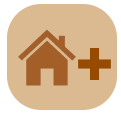
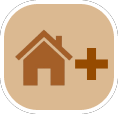
Merchant scoring, end panel, and actual buttons

diff --git a/KingdomBuilderPanel.java b/KingdomBuilderPanel.java
@@ -1,5 +1,6 @@
 import javax.imageio.ImageIO;
 import javax.swing.JPanel;
+import javax.swing.ImageIcon;
 import javax.swing.JButton;
 
 import java.awt.event.*;
@@ -12,7 +13,10 @@ import java.awt.Graphics2D;
 public class KingdomBuilderPanel extends JPanel implements ActionListener, MouseListener {
     private KingdomBuilder frame;
     private Game game;
+
     private JButton startButton;
+    private JButton settlementButton;
+    private JButton endTurnButtonButton;
 
     private JButton obj1Button;
     private JButton obj2Button;
@@ -22,19 +26,13 @@ public class KingdomBuilderPanel extends JPanel implements ActionListener, Mouse
     private Boolean obj2ButtonTF = false;
     private Boolean obj3ButtonTF = false;
 
-
-    private boolean canPlaceSettlement;
-
-    private BufferedImage blurBG, playerWood,mapWood, settlementWood, player1NameBlock, player2NameBlock, player3NameBlock, player4NameBlock, addSettlementButton,
-            endTurnButton, settlementCountBlock, deckTextBlock, discardTextBlock,purpleSettlement,yellowSettlement,blueSettlement,redSettlement,player1Small,player2Small,player3Small,player4Small,firstPlayer; 
+    private BufferedImage blurBG, playerWood,mapWood, settlementWood, player1NameBlock, player2NameBlock, player3NameBlock, player4NameBlock, addSettlementButton, settlementButtonBlackened,
+            endTurnButton, endTurnBlackened, settlementCountBlock, deckTextBlock, discardTextBlock,purpleSettlement,yellowSettlement,blueSettlement,redSettlement,player1Small,player2Small,player3Small,player4Small,firstPlayer; 
 
     public KingdomBuilderPanel(KingdomBuilder kb) {
         setSize(getPreferredSize());
         setLayout(null);
         frame = kb;
-        canPlaceSettlement = false;
-
-        
 
         startButton = new JButton("skip to end button");
         startButton.setOpaque(false);
@@ -45,6 +43,20 @@ public class KingdomBuilderPanel extends JPanel implements ActionListener, Mouse
         startButton.setFocusable(false);
         startButton.addActionListener(this);
         add(startButton);
+
+        settlementButton = new JButton();
+        settlementButton.setBounds(1409, 652, 114, 110);
+        settlementButton.setBorder(null);
+        settlementButton.setContentAreaFilled(false);
+        settlementButton.setFocusable(false);
+        settlementButton.addActionListener(this);
+
+        endTurnButtonButton = new JButton();
+        endTurnButtonButton.setBounds(1144, 840, 381, 49);
+        endTurnButtonButton.setBorder(null);
+        endTurnButtonButton.setContentAreaFilled(false);
+        endTurnButtonButton.setFocusable(false);
+        endTurnButtonButton.addActionListener(this);
 
         addMouseListener(this);
 
@@ -75,9 +87,25 @@ public class KingdomBuilderPanel extends JPanel implements ActionListener, Mouse
             player4Small = ImageIO.read(KingdomBuilderPanel.class.getResource("/Images/player4NameBlockSmall.png"));
             //firstPlayer = ImageIO.read(KingdomBuilderPanel.class.getResource("/Images/"));
 
+            settlementButtonBlackened = ImageIO.read(KingdomBuilderPanel.class.getResource("Images/Add Settlement Button Blackened.png"));
+            endTurnBlackened = ImageIO.read(KingdomBuilderPanel.class.getResource("Images/End Turn Button Blackened.png"));
+
         } catch (Exception e) {
             System.out.println("Kingdom Builder panel error");
         }
+
+        //?????? Not doing this results in Java cropping it slightly.
+        int width = 114;
+        int height = 110;
+        settlementButton.setIcon(new ImageIcon(addSettlementButton.getScaledInstance(width, height, java.awt.Image.SCALE_SMOOTH)));
+        settlementButton.setRolloverIcon(new ImageIcon(settlementButtonBlackened.getScaledInstance(width, height, java.awt.Image.SCALE_SMOOTH)));
+        settlementButton.setDisabledIcon(settlementButton.getRolloverIcon());
+        add(settlementButton);
+
+        endTurnButtonButton.setIcon(new ImageIcon(endTurnButton));
+        endTurnButtonButton.setRolloverIcon(new ImageIcon(endTurnBlackened));
+        endTurnButtonButton.setDisabledIcon(endTurnButtonButton.getRolloverIcon());
+        add(endTurnButtonButton);
     }
 
     public void start() {
@@ -85,11 +113,12 @@ public class KingdomBuilderPanel extends JPanel implements ActionListener, Mouse
     }
 
     public void setSettlementButton(boolean b) {
-    	canPlaceSettlement = b;
+    	//canPlaceSettlement = b;
+        settlementButton.setEnabled(b);
     }
 
     public void setSwitchTurnButton(boolean b) {
-
+        endTurnButtonButton.setEnabled(b);
     }
 
     public void paintComponent(Graphics l) {
@@ -111,8 +140,8 @@ public class KingdomBuilderPanel extends JPanel implements ActionListener, Mouse
         g.drawImage(discardTextBlock, 1270, 581, 102, 32, null);
         g.drawString("Discarded: " + game.getDiscard().size(), 1284, 602);
         //buttons on player section
-        g.drawImage(addSettlementButton, 1409, 652, 114, 110, null);
-        g.drawImage(endTurnButton, 1144, 840, 381, 49, null);
+        //g.drawImage(addSettlementButton, 1409, 652, 114, 110, null);
+        //g.drawImage(endTurnButton, 1144, 840, 381, 49, null);
 
         //Player not main people info
         int temp = game.turn();
@@ -330,14 +359,24 @@ public class KingdomBuilderPanel extends JPanel implements ActionListener, Mouse
         game.mostMoves(x, y);
         repaint();
         
-        if(x > 1409 && x < 1409 + 114 && y > 625 && y < 625+110 && canPlaceSettlement)
-        	game.startSettlementPlay();
-        if(x> 1144 && x < 1144+381 && y > 840 && y < 840+49) 
-            game.switchTurn();
+        //if(x > 1409 && x < 1409 + 114 && y > 625 && y < 625+110 && canPlaceSettlement)
+        //	game.startSettlementPlay();
+        //if(x> 1144 && x < 1144+381 && y > 840 && y < 840+49) 
+        //    game.switchTurn();
 
     }
 
     public void actionPerformed(ActionEvent e) {
-        frame.nextScreen();
+        if(e.getSource() == settlementButton) {
+            game.startSettlementPlay();
+            repaint();
+        }
+        else if(e.getSource() == endTurnButtonButton) {
+            game.switchTurn();
+            repaint();
+        }
+
+        else
+            endGame();
     }
 }

diff --git a/EndPanel.java b/EndPanel.java
@@ -1,23 +1,35 @@
 import java.util.ArrayList;
 import java.util.TreeSet;
 import java.util.HashMap;
+import java.util.Arrays;
 
 import javax.swing.JPanel;
 import javax.swing.JButton;
 
-import javax.imageio.*;
 import java.awt.Graphics;
 import java.awt.event.*;
 import java.awt.image.BufferedImage;
+import java.awt.Font;
+import java.awt.Color;
+
+import javax.imageio.*;
 
 public class EndPanel extends JPanel implements ActionListener{
     private KingdomBuilder frame;
     private BufferedImage woodBG, leaderboard, player1, player2, player3, player4, viewBoard, newGame;
     private JButton viewBoardButton, newGameButton;
 
+    private static final int LEADERBOARD_TOP_X = 206;
+    private static final int LEADERBOARD_TOP_Y = 240;
+    private static final int LEADERBOARD_INDENTED = LEADERBOARD_TOP_Y + 20;
+    private static final int RANK_SPACING = 90;
+    private static final int PLAYER_SPACING = 70;
+    private static final Font bigFont = new Font("Purisa", Font.BOLD, 60);
+    private static final Font smallFont = new Font("Purisa", Font.BOLD, 50);
+
     private String[] objectives;
     private HashMap<String, ArrayList<Integer>> scores;
-    private TreeSet<Integer>[] playerRanks;
+    private ArrayList<TreeSet<Integer>> playerRanks;
 
     private int[] totalScores;
 
@@ -59,6 +71,7 @@ public class EndPanel extends JPanel implements ActionListener{
         this.scores = scores;
 
         totalScores = new int[4];
+        playerRanks = new ArrayList<TreeSet<Integer>>();
 
         ArrayList<Integer> temp;
         for(String objective: scores.keySet()) {
@@ -72,26 +85,35 @@ public class EndPanel extends JPanel implements ActionListener{
         rankPlayers();
     }
 
+    //Richard: no point in over-optimizing. Besides, other solutions are very similar
     private void rankPlayers() {
-        int numPlayersRanked = 0;
-        int rankAt = 0;
-
-        while(numPlayersRanked < 4) {
-
-        }
-        playerRanks[rankAt]= new TreeSet<Integer>();
-        int maxScoreIndex = 0;
-        for(int i = 1; i < totalScores.length; i++) {
-            if(totalScores[i] > totalScores[maxScoreIndex]) {
-                maxScoreIndex = i;
-            }
-        }
-
+        int[] sortedScores = new int[4];
+        
         for(int i = 0; i < totalScores.length; i++) {
-            if(totalScores[i] == totalScores[maxScoreIndex]) {
-                playerRanks[rankAt].add(i);
-            }
+            sortedScores[i] = totalScores[i];
         }
+
+        Arrays.sort(sortedScores);
+
+        int currentScore;
+        int previousScore = -1;
+        for(int i = 3; i >= 0; i--) {
+            currentScore = sortedScores[i];
+
+            if(currentScore == previousScore)
+                continue;
+
+            playerRanks.add(new TreeSet<Integer>());
+            addPlayersWithScore(currentScore);
+
+            previousScore = currentScore;
+        }
+    }
+
+    private void addPlayersWithScore(int score) {
+        for(int i = 0; i < totalScores.length; i++)
+            if(totalScores[i] == score)
+                playerRanks.get(playerRanks.size() - 1).add(i);
     }
 
     public void paintComponent(Graphics g) {
@@ -100,6 +122,36 @@ public class EndPanel extends JPanel implements ActionListener{
         g.drawImage(leaderboard, 206, 18, 1288, 178, null);
         g.drawImage(viewBoard, 1300, 760, 242, 93, null);
         g.drawImage(newGame, 1300, 860, 242, 93, null);
+
+        Font old = g.getFont();
+        g.setColor(new Color(188, 151, 107));
+
+        int yAt = LEADERBOARD_TOP_Y;
+        for(int i = 0; i < playerRanks.size(); i++) {
+            String mess;
+            if(i == 0)
+                mess = "1st";
+            else if(i == 1)
+                mess = "2nd";
+            else if(i == 2)
+                mess = "3rd";
+            else
+                mess = "4th";
+
+            g.setFont(bigFont);
+            g.drawString(mess, LEADERBOARD_TOP_X, yAt);
+
+            g.setFont(smallFont);
+            for(int idk: playerRanks.get(i)) {
+                yAt += PLAYER_SPACING;
+                g.drawString("Player " + (idk + 1) + " ~ " + totalScores[idk], LEADERBOARD_INDENTED, yAt);
+            }
+
+            yAt += RANK_SPACING;
+        }
+
+
+        g.setFont(old);
     }
 
     public void actionPerformed(ActionEvent e) {

diff --git a/Game.java b/Game.java
@@ -4,8 +4,8 @@ import java.util.Queue;
 import java.util.LinkedList;
 import java.util.Collections;
 import java.util.HashMap;
-
-import java.util.Arrays;
+import java.util.Stack;
+//import java.util.Arrays;
 
 import java.awt.Graphics2D;
 
@@ -148,8 +148,6 @@ public class Game {
 
             p.updatePowerUpPositions();
         }
-
-        System.out.println(Arrays.toString(objectiveDeck));
     }
 
     public int getFirstPlayer(){
@@ -248,10 +246,11 @@ public class Game {
                 return;
 
             settlementCount++;
-            if(settlementCount == 3)
+            if(settlementCount == 3) {
                 settlementPlaying = 2;
                 settlementCount = 0;
                 panel.setSwitchTurnButton(true);
+            }
 
             if(settlementPlaying != 2) {
                 eligibleTiles = findEligibleTiles(players[turn].settlements, players[turn].getCard(), true);
@@ -600,6 +599,7 @@ public class Game {
                         break;
 
                     case "merchants":
+                        score2 = scoreMerchants(turnToScore);
                         break;
 
                     default:
@@ -820,9 +820,57 @@ public class Game {
         }
     }
 
-    private void scoreConnectedSpecialTiles() {
+    private int scoreMerchants(int currentTurn) {
+        HashSet<Tile> settlements = players[currentTurn].settlements;
+        HashSet<Tile> specialTiles = players[currentTurn].specialTiles;
+        
+        Stack<Tile> toVisit = new Stack<Tile>();
+        HashSet<Tile> tilesVisited = new HashSet<Tile>();
 
-    }
+        int score = 0;
+        int allVisitedSpecialTiles = 0;
+
+        for(Tile t: specialTiles) {
+            if(tilesVisited.contains(t))
+                continue;
+
+            if(allVisitedSpecialTiles > specialTiles.size() - 2)
+                break;
+
+            int visitedSpecialTiles = 0;
+
+            toVisit.push(t);
+            tilesVisited.add(t);
+            visitedSpecialTiles++;
+
+            while(!toVisit.isEmpty()) {
+                Tile tileAt = toVisit.pop();
+
+                Tile[] neighbors = board.getNeighbors(tileAt);
+                for(Tile t2: neighbors) {
+                    if(t2 == null || tilesVisited.contains(t2))
+                        continue;
+
+                    if(specialTiles.contains(t2))
+                        visitedSpecialTiles++;
+
+                    else if(!settlements.contains(t2))
+                        continue;
+
+                    //Richard: this trickery should only occur if either the tile is in specialTiles or is contained in settlements
+                    toVisit.push(t2);
+                    tilesVisited.add(t2);
+                }
+            }
+            
+            allVisitedSpecialTiles += visitedSpecialTiles;
+            
+            if(visitedSpecialTiles > 1)
+                score += visitedSpecialTiles;
+        }
+
+        return score;
+    }  
     
     private int[] scoreHermitsCitizens(int currentTurn) {
         boolean hermits = objectivesContain("hermits");
